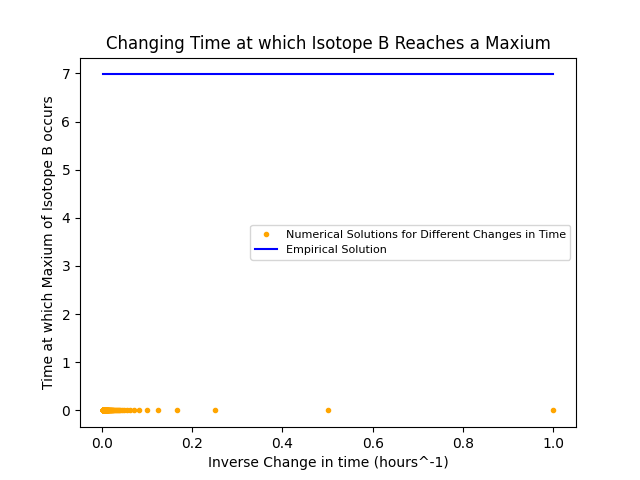
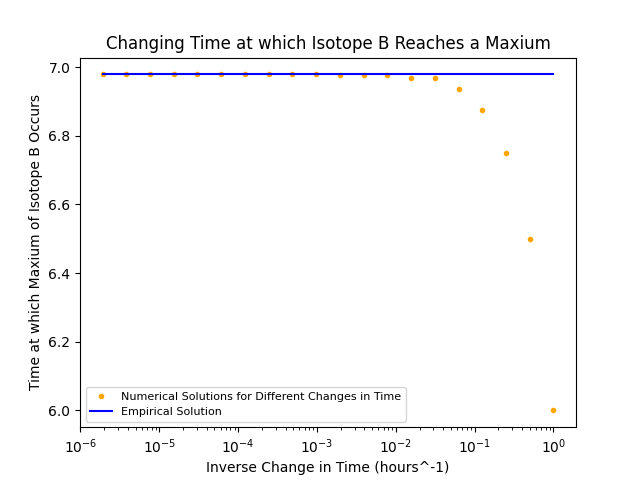
Fixed bug in program taking too long

diff --git a/NPRE247_CP1/ThreeComponentDecayChain.py b/NPRE247_CP1/ThreeComponentDecayChain.py
@@ -95,12 +95,13 @@ for i in range(len(nCf)-1):
 
 # Create arrays to graph maxiums against changing deltat
 
-changing_deltat = np.zeros(int(T_final/(deltat/4)))
-for i in range(len(np.zeros(int(T_final/(deltat/4))))):
+changing_deltat = np.zeros(20)
+for i in range(20):
     changing_deltat[i] = deltat *2**(-i)
 
-MaxB = np.zeros(len(timestep3))
-for i in range(len(timestep3)):
+MaxB = np.zeros(20)
+percent = 0
+for i in range(20):
     length = int(T_final / changing_deltat[i])
     dummy = np.zeros(length)
     dummyA = np.zeros(length)
@@ -110,9 +111,11 @@ for i in range(len(timestep3)):
         dummyA[k+1] = -lambdaA * dummyA[k] * changing_deltat[i] + dummyA[k]
         dummy[k+1] = lambdaA * dummyA[k] * changing_deltat[i] - lambdaB * dummy[k] * changing_deltat[i] + dummy[k]
     MaxB[i] = np.argmax(dummy) * changing_deltat[i]
-    
-timeline = np.zeros(int(T_final/(deltat/4)))
-for i in range(len(np.zeros(int(T_final/(deltat/4))))):
+    percent += 5
+    print(f'{percent}%')
+
+timeline = np.zeros(20)
+for i in range(20):
     timeline[i] = 6.97875
 
 B_value = AnalyticalB(6.97875)
